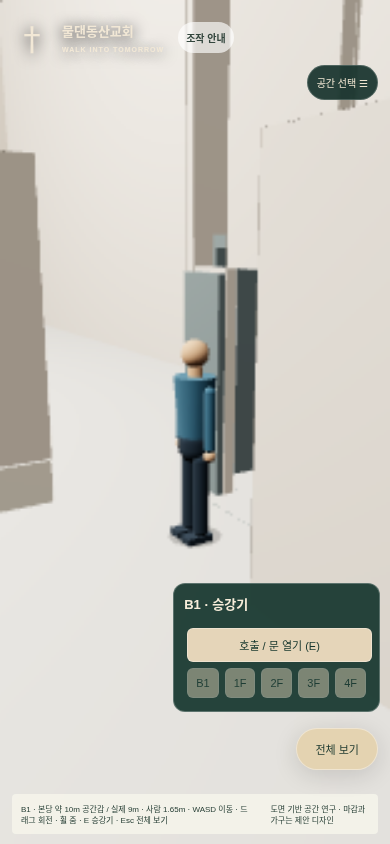
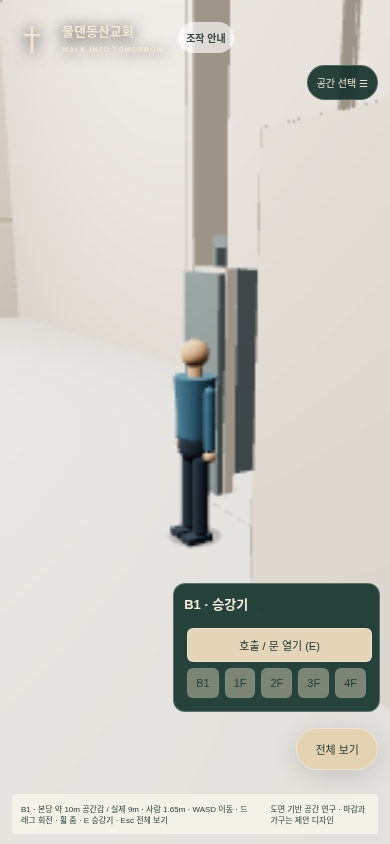
Normalize upper floors and flatten sanctuary

Changed region(s): [[0.0, 0.154, 0.1538, 0.6161]]

diff --git a/src/building-world.js b/src/building-world.js
@@ -1,7 +1,7 @@
 import * as T from 'three';
 import {GLTFLoader} from 'three/addons/loaders/GLTFLoader.js';
 import {mergeGeometries} from 'three/addons/utils/BufferGeometryUtils.js';
-export const FLOORS = [{id:'sanctuary',label:'B1',y:-9.4},{id:'outside',label:'1F',y:0},{id:'education',label:'2F',y:3.2},{id:'community',label:'3F',y:9.6},{id:'terrace',label:'4F',y:12.8}];
+export const FLOORS = [{id:'sanctuary',label:'B1',y:-9.4},{id:'outside',label:'1F',y:0},{id:'education',label:'2F',y:3.2},{id:'community',label:'3F',y:7.2},{id:'terrace',label:'4F',y:11.2}];
 const stairHole={x1:4.5,x2:7.5,z1:2.8,z2:8.6};
 const liftHole={x1:9.94,x2:12.05,z1:4.91,z2:7.62};
 const down=new T.Vector3(0,-1,0);
@@ -14,7 +14,7 @@ export class BuildingWorld {
     this.repairs=[];this.ray=new T.Raycaster();this.ray.layers.enableAll();this.meshes=[];this.walkables=[];this.solids=[];this.doors=[];
     this.original=new Map();this.root.traverse(o=>{if(o.isMesh)this.original.set(sourceName(o),o)});
     this.trim=new T.MeshStandardMaterial({color:0xd6d0c2,roughness:.7});
-    this.fixStructure();this.fitSanctuary();this.expandSanctuary();this.buildRearRooms();this.openDiningHall();this.furnishEducationRooms();this.buildLift();this.index();this.batchVisuals();
+    this.normalizeUpperFloors();this.removeSanctuaryStairs();this.fixStructure();this.fitSanctuary();this.expandSanctuary();this.buildRearRooms();this.openDiningHall();this.furnishEducationRooms();this.buildLift();this.index();this.batchVisuals();
   }
   box(name,x,y,z,w,h,d,material=this.trim,parent=this.root){
     const o=new T.Mesh(new T.BoxGeometry(w,h,d),material);o.name=name;o.position.set(x,y,z);o.receiveShadow=true;parent.add(o);return o;
@@ -27,11 +27,30 @@ export class BuildingWorld {
     const geom=new T.ExtrudeGeometry(shape,{depth:b.y-a.y,bevelEnabled:false});geom.rotateX(-Math.PI/2);geom.translate(0,a.y,0);
     const o=new T.Mesh(geom,material);o.name=name;o.receiveShadow=true;this.root.add(o);return o;
   }
+  normalizeUpperFloors(){
+    // Preserve B1/1F/2F floor levels, then make the 2F and 3F clear structural
+    // intervals exactly 4m: 2F 3.2→3F 7.2→4F 11.2.
+    const remap=y=>y<=3.2?y:y<=9.6?3.2+(y-3.2)*.625:y<=12.8?7.2+(y-9.6)*1.25:y-1.6;
+    this.root.updateMatrixWorld(true);
+    for(const [name,o] of this.original){
+      if(name==='ROOF_Setback')continue;
+      const matrix=o.matrixWorld.clone(),inverse=matrix.clone().invert();
+      o.geometry=o.geometry.clone();const points=o.geometry.attributes.position,v=new T.Vector3();
+      for(let i=0;i<points.count;i++){v.fromBufferAttribute(points,i).applyMatrix4(matrix);v.y=remap(v.y);v.applyMatrix4(inverse);points.setXYZ(i,v.x,v.y,v.z)}
+      points.needsUpdate=true;o.geometry.computeVertexNormals();o.geometry.computeBoundingBox();o.geometry.computeBoundingSphere();
+    }
+    this.root.updateMatrixWorld(true);this.repairs.push('Upper floors normalized to 2F 3.2m, 3F 7.2m, 4F 11.2m; 2F and 3F each 4m');
+  }
+  removeSanctuaryStairs(){
+    let removed=0;
+    for(const [name,o]of this.original)if(/^B1_(STAIR_|RailPost_|MidLandingGuard_)/.test(name)){o.removeFromParent();removed++}
+    this.sanctuaryStairsRemoved=removed;this.repairs.push('Removed '+removed+' B1 stair and guard meshes; sanctuary circulation uses elevator');
+  }
   fixStructure(){
     // Restore the approved roof transform: the supplied environment export rotated
     // this horizontal slab into a vertical panel extending down into the sanctuary.
     const roof=this.original.get('ROOF_Setback');
-    if(roof){roof.position.set(0,15.899999618530273,-6);roof.quaternion.identity();roof.scale.set(1,1,1);roof.updateMatrixWorld(true);this.repairs.push('ROOF_Setback restored to approved horizontal roof at 15.8–16m; no B1 intrusion')}
+    if(roof){roof.position.set(0,14.299999618530273,-6);roof.quaternion.identity();roof.scale.set(1,1,1);roof.updateMatrixWorld(true);this.repairs.push('ROOF_Setback restored horizontally at 14.2–14.4m after upper-floor normalization; no B1 intrusion')}
 
     // The new landscape base spans through the building; open only its concealed footprint.
     const grass=this.original.get('ENV_Ground_Grass');
@@ -57,7 +76,7 @@ export class BuildingWorld {
     // This room partition occupies the existing B1 stair flight/landing footprint.
     this.original.get('B1_Room_Front_A_6')?.removeFromParent();
     this.repairs.push('Removed obsolete 01_Lobby_E and B1 stair-intersecting partition B1_Room_Front_A_6');
-    for(const f of FLOORS){
+    for(const f of FLOORS.filter(f=>f.id!=='sanctuary')){
       this.box('Landing_bridge_'+f.label,6,f.y-.08,2.95,2.6,.16,.5);
       this.box('Landing_exit_'+f.label,7.55,f.y-.08,3.55,1.1,.16,.9);
     }
@@ -118,36 +137,8 @@ export class BuildingWorld {
       const originals=source<25?[...this.original].filter(([n])=>n.startsWith(prefix)).map(([,o])=>o):added.get(source);
       const copies=originals.map(o=>{const c=o.clone();c.name=(o.userData.name||o.name).replace(prefix,next);c.userData={name:c.name};c.position.x+=dx;c.position.z+=dz;this.root.add(c);return c});added.set(id,copies);
     }
-    // One concentric tier per seating row: 12cm steps descend toward the stage.
-    this.root.updateMatrixWorld(true);
-    const pewMeshes=[];this.root.traverse(o=>{if(o.isMesh&&/^B1_Pew_\d+_/.test(sourceName(o)))pewMeshes.push(o)});
-    const center=new T.Vector2(-10.5,-8.4),tiers=new Map();
-    for(const o of pewMeshes){const seatName=sourceName(o).match(/^(B1_Pew_\d+)_/)[1];if(!tiers.has(seatName))tiers.set(seatName,Math.max(0,Math.min(11,Math.floor((Math.hypot(o.position.x-center.x,o.position.z-center.y)-5.2)/1.3))))}
-    const tierMaterial=new T.MeshStandardMaterial({color:0xb8afa0,roughness:1,side:T.DoubleSide});
-    // Build clipped quarter-ring terraces instead of full rings. The clipping
-    // keeps the raised seating floor out of the rear rooms and lift corridor;
-    // the inner vertical quads make every 12cm descent visible as a real step.
-    for(let i=0;i<=11;i++){
-      const inner=5.2+i*1.3,outer=inner+1.3,y=floor+i*.12+.02,positions=[];
-      for(let s=0;s<128;s++){
-        const a=s/128*Math.PI/2,b=(s+1)/128*Math.PI/2;
-        const p=(r,t,h)=>[center.x+Math.sin(t)*r,h,center.y+Math.cos(t)*r];
-        const ia=p(inner,a,y),ib=p(inner,b,y),oa=p(outer,a,y),ob=p(outer,b,y);
-        const valid=([x,,z])=>x<=8&&z<=6.4&&!(x>5.3&&z>.6&&z<2.2)&&!(x>4.3&&x<7.8&&z>2.5&&z<6.5);
-        if(![ia,ib,oa,ob].every(valid))continue;
-        positions.push(...ia,...oa,...ob,...ia,...ob,...ib);
-        if(i>0){const low=y-.12;positions.push(...p(inner,a,low),...ia,...ib,...p(inner,a,low),...ib,...p(inner,b,low))}
-      }
-      const g=new T.BufferGeometry();g.setAttribute('position',new T.Float32BufferAttribute(positions,3));g.computeVertexNormals();
-      const tier=new T.Mesh(g,tierMaterial);tier.name='B1_Seating_Tier_'+i;this.root.add(tier);
-    }
-    // A conventional eight-step aisle descends from the seating rake to the
-    // original B1 stair landing, eliminating the former jump and loose wedges.
-    for(let i=0;i<9;i++){
-      const h=(9-i)*.12;
-      this.box('B1_Seating_Tier_AisleStep_'+i,4.45+(i+.5)*.4,floor+h/2,1.4,.405,h,1.55,tierMaterial);
-    }
-    for(const o of pewMeshes)o.position.y+=tiers.get(sourceName(o).match(/^(B1_Pew_\d+)_/)[1])*.12;
+    // Keep the sanctuary seating on one continuous floor. The former curved
+    // terraces distorted the room and created abrupt drops beside the aisles.
     // Four separate cushions per bench echo the reference seating without losing the existing pew frames.
     this.root.updateMatrixWorld(true);const seatParts=[];this.root.traverse(o=>{if(o.isMesh&&/^B1_Pew_\d+_(Seat|Back)$/.test(sourceName(o)))seatParts.push(o)});
     for(const o of seatParts){const name=sourceName(o),isSeat=name.endsWith('_Seat');o.material=wood;
@@ -162,8 +153,8 @@ export class BuildingWorld {
       this.box('B1_Lighting_Track_'+row,0,0,0,width,.055,.06,trackMaterial,track);
       for(let u=-width/2+.5;u<width/2;u+=1.5){this.box('B1_Light_Housing',u,-.09,0,.13,.15,.17,trackMaterial,track);this.box('B1_Light_Diffuser',u,-.17,.015,.11,.018,.14,lampMaterial,track)}
     }
-    this.sanctuary.pewCount=37;this.sanctuary.stageWidth=10.8;this.sanctuary.stageDepth=4.4;this.sanctuary.frontAisleClearance=.9;this.sanctuary.tierRise=.12;this.sanctuary.tierCount=12;
-    this.repairs.push('Expanded curved stage 10.8m × 4.4m; 37 upholstered pews on 12 descending 12cm terraces; 0.9m minimum front circulation band');
+    this.sanctuary.pewCount=37;this.sanctuary.stageWidth=10.8;this.sanctuary.stageDepth=4.4;this.sanctuary.frontAisleClearance=.9;this.sanctuary.tierRise=0;this.sanctuary.tierCount=0;this.sanctuary.flatSeating=true;
+    this.repairs.push('Expanded curved stage 10.8m × 4.4m; 37 upholstered pews retained on a continuous flat floor; sanctuary stairs removed');
   }
   buildRearRooms(){
     const floor=-9.4,front=7.4,back=10.98,height=3;
@@ -217,14 +208,14 @@ export class BuildingWorld {
     for(const [name,o] of this.original){const match=name.match(/^03_Dining_[0-2]_(\d+)_/);if(match)o.position.z+=rowTargets[Number(match[1])]-[-1.1,-4.1,-7.1][Number(match[1])]}
     // Close the previously open rear elevation without cutting through the hall:
     // an opaque sill and upper glazing sit on the actual rear boundary at z=-9m.
-    const wall=new T.MeshStandardMaterial({color:0xd6d0c2,roughness:.9});
+    const diningFloor=7.2,wall=new T.MeshStandardMaterial({color:0xd6d0c2,roughness:.9});
     const glass=new T.MeshStandardMaterial({color:0xa8c7cc,transparent:true,opacity:.38,depthWrite:false,roughness:.18,side:T.DoubleSide});
     const frame=new T.MeshStandardMaterial({color:0x6f7775,roughness:.75});
-    this.box('03_Dining_Rear_Sill',1.45,10.05,-8.98,12.78,.9,.14,wall);
-    this.box('03_Dining_Rear_Glass',1.45,11.55,-8.98,12.78,2.1,.055,glass);
-    this.box('03_Dining_Rear_Header',1.45,12.55,-8.98,12.78,.1,.16,frame);
-    for(let x=-4.94;x<=7.85;x+=1.6)this.box('03_Dining_Rear_Mullion',x,11.55,-8.91,.055,2.1,.07,frame);
-    this.diningHall={floor:9.6,tableRows:3,frontGlazingContinuous:true,rearEnclosed:true,bounds:{x1:-4.2,x2:4.2,z1:-8.9,z2:-2.85}};
+    this.box('03_Dining_Rear_Sill',1.45,diningFloor+.45,-8.98,12.78,.9,.14,wall);
+    this.box('03_Dining_Rear_Glass',1.45,diningFloor+2.4,-8.98,12.78,3,.055,glass);
+    this.box('03_Dining_Rear_Header',1.45,diningFloor+3.95,-8.98,12.78,.1,.16,frame);
+    for(let x=-4.94;x<=7.85;x+=1.6)this.box('03_Dining_Rear_Mullion',x,diningFloor+2.4,-8.91,.055,3,.07,frame);
+    this.diningHall={floor:diningFloor,tableRows:3,frontGlazingContinuous:true,rearEnclosed:true,bounds:{x1:-4.2,x2:4.2,z1:-8.9,z2:-2.85}};
     this.repairs.push('3F front curtain wall restored continuously; all three dining rows moved behind facade glazing; rear elevation enclosed');
   }
   furnishEducationRooms(){
@@ -243,6 +234,12 @@ export class BuildingWorld {
   }
   buildLift(){
     const steel=new T.MeshStandardMaterial({color:0x7b898c,metalness:.5,roughness:.35});
+    // Vertical remapping must not compress the 2.1m lift doorway. Rebuild the
+    // three affected headers above a fixed clear opening on each upper level.
+    for(const [id,floor,ceiling]of[['02',3.2,7.2],['03',7.2,11.2],['04',11.2,14.4]]){
+      const old=this.original.get('EV_'+id+'_header');if(!old)continue;const material=old.material;old.removeFromParent();
+      const bottom=floor+2.15,height=ceiling-bottom;this.box('EV_'+id+'_header_clear',10,bottom+height/2,6.265,.12,height,1.35,material);
+    }
     const group=new T.Group();group.name='Elevator_car';this.root.add(group);
     this.car=group;this.lift={y:0,target:0,phase:'open',openness:1,passenger:false};
     this.box('Lift_car_floor',11,-.07,6.265,1.75,.14,2.35,steel,group);

diff --git a/CODEX_HANDOFF_2026-11-03.md b/CODEX_HANDOFF_2026-11-03.md
@@ -7,7 +7,7 @@
 - GitHub: `roronee91-star/mdc`
 - 작업 브랜치: `work`
 - GitHub Pages 배포 브랜치: `main`
-- 현재 배포 커밋: `662d1f2` (`Restore front glazing and refine stair transition`)
+- 최신 작업: 2F/3F 4m 층고 통일, 3F 식당 복구, 4F 출입구 확보, 본당 계단 제거
 - 배포 주소: https://roronee91-star.github.io/mdc/
 - 현재 GLB: `assets/church-environment-20261103.glb`
 
@@ -15,8 +15,8 @@
 
 - 승인된 외관 버전3을 임의로 변경하지 말 것.
 - 십자가 정면 오른쪽 끝은 건물 모서리이며 오른쪽 유리는 정면이 아니라 측면 창이다.
-- 기존 GLB, 코드 구조, 층 레벨, 계단·승강기 구현을 유지하면서 보완할 것.
-- B1 `-9.4m`, 1F `0m`, 2F `3.2m`, 3F `9.6m`, 4F `12.8m`.
+- 기존 GLB와 코드 구조를 유지하면서 보완할 것.
+- B1 `-9.4m`, 1F `0m`, 2F `3.2m`, 3F `7.2m`, 4F `11.2m`.
 - 테스트하지 않은 기능을 완료로 표시하지 말 것.
 - 실제 Chromium에서 WASD, 충돌, 계단, 승강기, 카메라를 확인할 것.
 
@@ -24,9 +24,9 @@
 
 - 본당 실제 유효 높이 9m, 약 10m 공간감, 캐릭터 1.65m.
 - 본당 의자 37개. 카메라 근접 시 의자를 숨기지 않음.
-- 좌석 바닥은 12cm 간격의 12단 곡선형 단차.
+- 좌석 바닥은 단차와 계단이 없는 평바닥.
 - 강대상 10.8m × 4.4m, 전면 통로 최소 0.9m.
-- 좌석 단차에서 평바닥으로 내려오는 12cm 높이의 9단 연결 계단 구현.
+- B1 본당 계단과 난간 메시 99개 제거. B1 이동은 승강기 사용.
 - 캐릭터 다리 흔들림을 0.18rad로 줄여 계단 관통을 완화.
 - B1 후면에 자모실·엔지니어실이 별도 공간으로 구현됨.
 - 3층 정면 `Upper_Setback_Glass`와 `FRAME_Setback0~21`을 유지해 커튼월이 연속됨.
@@ -34,7 +34,7 @@
 - 3층 후면은 하부 벽, 상부 유리, 멀리언으로 닫혀 있음.
 - 2층 큰 소그룹실: 긴 회의 테이블 1개와 의자 8개.
 - 2층 작은 기도실 2개: 좌식 방석 총 8개.
-- B1~4F 계단 왕복과 전 층 승강기 이동이 동작함.
+- 1F~4F 계단 왕복과 B1~4F 전 층 승강기 이동이 동작함.
 
 ## 주요 코드
 
@@ -48,10 +48,10 @@
 ## 최근 검증 결과
 
 - `npm test`: 구조 검사 23개 통과
-- `npm run test:browser`: 실제 브라우저 검사 19개 통과
+- `npm run test:browser`: 실제 브라우저 검사 17개 통과
 - `npm run test:camera`: 5개 통과
 - `npm run test:occlusion`: 숨겨진 본당 의자 0개
-- B1→4F 및 4F→B1 계단 통과
+- 1F→4F 및 4F→1F 계단 통과
 - 승강기 B1, 1F, 2F, 3F, 4F 승하차 통과
 - 승인 외관·환경 메시 659개와 원본 의자 형상 100개 유지 확인
 

diff --git a/docs/verification/REPORT.md b/docs/verification/REPORT.md
@@ -1,5 +1,13 @@
 # 작업 및 검증 기록 — 2026-11-02
 
+## 2026-11-04 층고 통일·식당/4층 출입구·본당 평바닥 수정
+
+사용자 요청에 따라 레벨을 B1 -9.4m / 1F 0m / 2F 3.2m / 3F 7.2m / 4F 11.2m로 변경했다. 2F→3F와 3F→4F는 각각 4m다. 3층 식탁 9개와 커튼월을 7.2m 기준으로 내렸고, 기존 4층 바닥까지 올라오던 유리 상단을 4층 아래로 이동했다. 승강기 2·3·4층 헤더는 바닥에서 2.15m 이상의 출입 높이를 다시 확보했다.
+
+본당의 곡선형 좌석 단차, 연결 단, 원본 B1 계단과 난간 메시 99개를 제거했다. 장의자 37개는 B1 -9.4m 평바닥에 유지한다. B1은 승강기로 이동하며 1F~4F 상부 계단은 유지한다.
+
+검증 결과는 구조 검사 23개, Chromium 전체 동선 17개, 실시간 카메라 5개가 통과했다. 별도 Chromium 검사에서 3층 식당 3열/식탁 9개, 본당 평바닥/계단 제거, 지붕 위치, 후면 외관, 2층 가구, 후면 두 방 출입, 좌석 비가림을 확인했다. `current/dining-hall-three-rows.png`, `lift-11_2.png`, `sanctuary-flat-floor.png`를 직접 확인했다.
+
 ## 적용 대상
 
 사용자가 승인한 `roronee91-star/mdc` 기존 저장소와 UI를 유지했다. 이전에 분리되어 있던 개략 공간 생성 코드를 첨부 GLB를 읽는 연속 건물로 교체했다. 원격의 `86a805d` 커밋에 추가된 `assets/mdcc.glb`는 보존했다.
